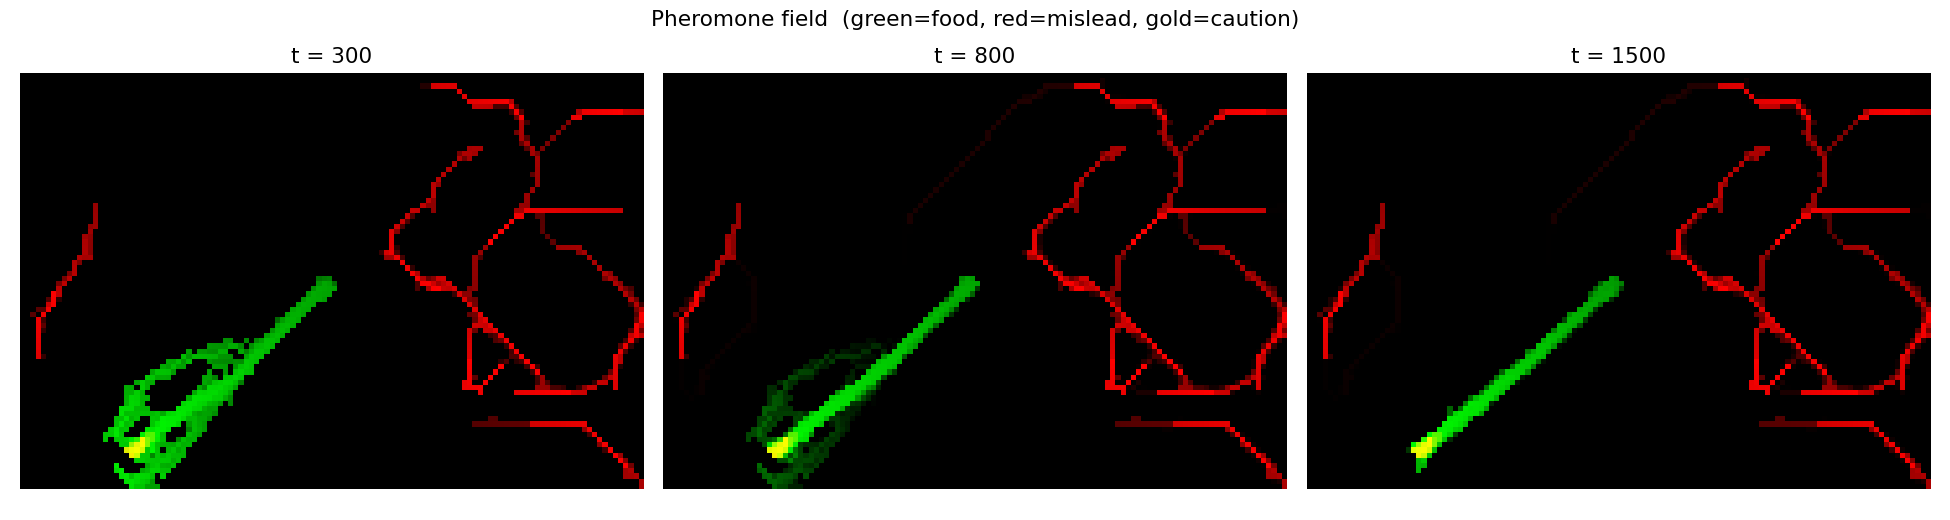
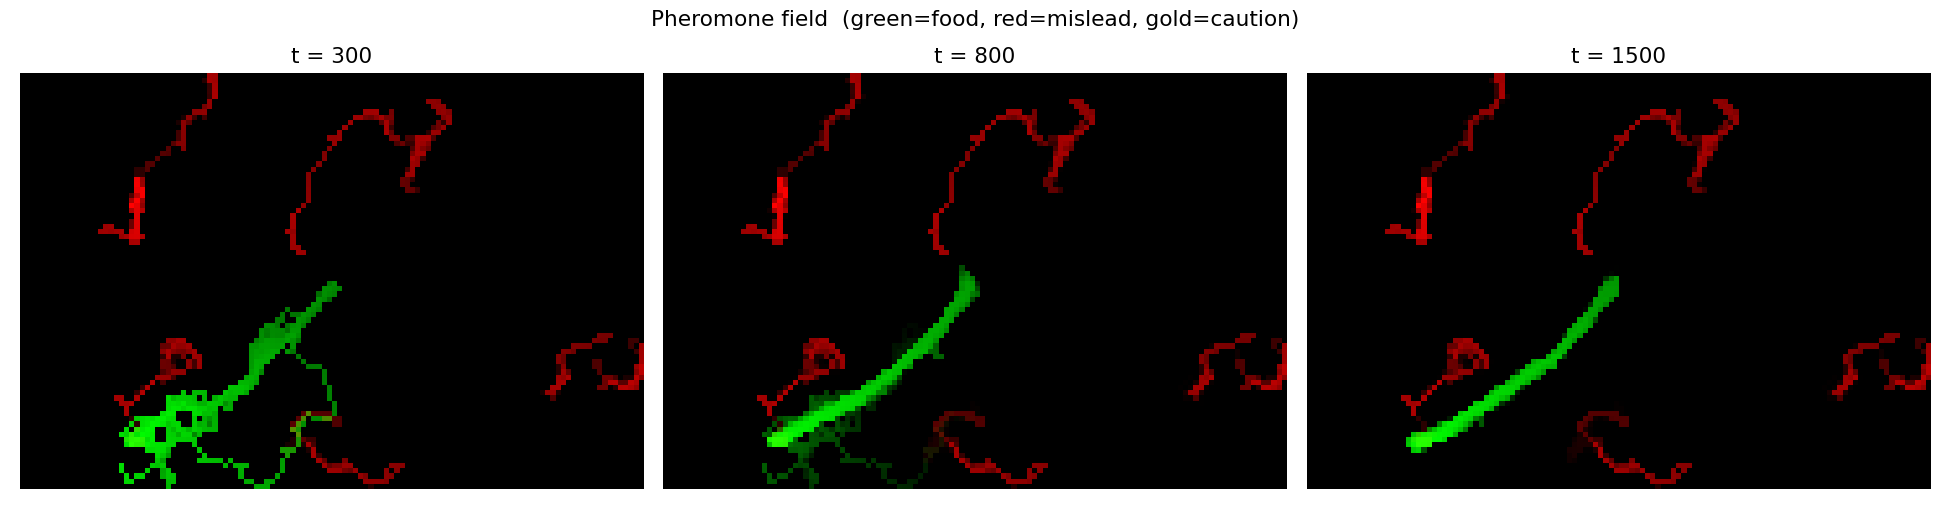
feat(viz): legibility pass + in-app About panel + one-pager
- searchers wander when no trail is sensed, so they fill an organic blob
  instead of beelining to the world edge (fixes the 'perfect square' artifact)
- patience_max sweet spot (500) so the cautionary defence reliably helps;
  document that too-low/too-high backfires (the defence's own cliff)
- vivid per-layer pheromone rendering (low vmax) so trails read clearly
- About panel in the dashboard: legend + guided walkthrough
- docs/one-pager.md: the protocol-fragility framing for the SIG
- regenerated field/heatmap with new dynamics

🤖 Generated with [Claude Code](https://claude.com/claude-code)

diff --git a/app.py b/app.py
@@ -3,22 +3,19 @@
 Run with:
     solara run app.py
 
-Sliders retune the protocol live: dial up the detractor fraction or slow the
-misleading-pheromone evaporation to watch foraging collapse, then toggle the
-cautionary defence to watch it partly recover. The grid shows ants (red =
-searching, gold = returning) over three pheromone layers (green = honest food,
-red = forged, gold = cautionary).
+Drive the protocol live with the sliders. The About panel in the dashboard
+explains the legend and what to do; this docstring is just the entry point.
 
-If this dashboard misbehaves (Solara's PropertyLayer rendering has been finicky
-across mesa 3.x), the headless path is fully sufficient: `python analysis.py`
-reproduces the heatmap and field snapshots without Solara.
+If the dashboard ever misbehaves (mesa's viz API has moved across 3.x), the
+headless path is fully sufficient: `python analysis.py` reproduces the heatmap
+and field snapshots without Solara.
 """
 
 from __future__ import annotations
 
-from mesa.visualization import SolaraViz, make_space_component, make_plot_component
+import solara
+from mesa.visualization import SolaraViz, make_space_component, make_plot_component, Slider
 from mesa.visualization.components import PropertyLayerStyle
-from mesa.visualization import Slider
 
 from src.model import ColonyModel
 from src.protocol import TO_FOOD
@@ -26,32 +23,69 @@ from src.protocol import TO_FOOD
 
 def agent_portrayal(agent):
     if agent.role == "detractor":
-        return {"color": "magenta", "size": 8, "marker": "x"}
+        return {"color": "magenta", "size": 14, "marker": "x"}
     if agent.state == TO_FOOD:
-        return {"color": "tab:red", "size": 6}
-    return {"color": "gold", "size": 6}
+        return {"color": "#e8483c", "size": 5}      # searching
+    return {"color": "gold", "size": 6}             # returning with food
 
 
-# Intensity -> alpha of a single colour, per layer. mesa 3.4.1 wants a callable
-# returning a PropertyLayerStyle (the dict form is deprecated). The home layer is
-# left unstyled (returns None) to keep the picture readable.
-_LAYER_COLORS = {
-    "pheromone_food": ("lime", 0.8),
-    "pheromone_mislead": ("red", 0.8),
-    "pheromone_caution": ("gold", 0.6),
+# Per-layer colour and a low vmax so even faint trails saturate to a bright wash.
+# mesa 3.4.1 wants a callable returning a PropertyLayerStyle (the dict form is
+# deprecated). The home layer is left unstyled to keep the picture readable.
+_LAYER_STYLE = {
+    "pheromone_food": dict(color="lime", alpha=0.9, vmax=70.0),
+    "pheromone_mislead": dict(color="red", alpha=0.9, vmax=70.0),
+    "pheromone_caution": dict(color="gold", alpha=0.7, vmax=120.0),
 }
 
 
 def propertylayer_portrayal(layer):
-    spec = _LAYER_COLORS.get(layer.name)
+    spec = _LAYER_STYLE.get(layer.name)
     if spec is None:
         return None
-    color, alpha = spec
-    return PropertyLayerStyle(color=color, alpha=alpha, vmin=0.0, vmax=200.0, colorbar=False)
+    return PropertyLayerStyle(vmin=0.0, colorbar=False, **spec)
+
+
+ABOUT = """
+## Stigmergy Protocol Bench
+
+**Stigmergy** is coordination with no messages and no boss: ants read and write a
+shared chemical medium, and the trail *is* the protocol. This bench asks what
+happens when that medium can be forged.
+
+**On the grid**
+- **red dots** &mdash; ants searching for food
+- **gold dots** &mdash; ants carrying food back to the nest
+- **magenta &times;** &mdash; *detractors* (adversaries); only present if the detractor slider is above 0
+- **green wash** &mdash; honest food trail
+- **red wash** &mdash; forged trail laid by detractors (looks identical to food)
+- **gold wash** &mdash; cautionary trail, the defence (only when enabled)
+
+Ants spread from the nest (centre) in a loose blob. When some find the food (far
+corner) they lay a green trail home and others sharpen it into a line. Detractors
+lay a red trail that ants **cannot tell apart** from real food, so the colony
+reinforces the fake one and gets trapped.
+
+**Try this**
+1. Press play with **detractor fraction = 0**: a clean green line forms. Healthy foraging.
+2. Raise **detractor fraction** to ~0.10 and set **mislead evaporation &times; = 0** (forgery never fades). Watch foraging collapse. That is the cliff: a few percent of liars starve the colony.
+3. Toggle **cautionary defence** on. Ants distrust trails that lead nowhere (gold), and foraging partly recovers &mdash; never fully, and the defence has its own sweet spot.
+
+**The point (for protocol theory):** any coordination protocol whose shared
+medium cannot be authenticated has this cliff. The defence is a second-order
+trust layer, and it trades liveness for safety. The plots track exactly that:
+*food delivered / success* (liveness) against *fraction captured* (the trap).
+"""
+
+
+@solara.component
+def About(model):
+    solara.Markdown(ABOUT)
+
 
 model_params = {
     "seed": {"type": "InputText", "value": 42, "label": "seed"},
-    "max_steps": 4000,
+    "max_steps": 5000,
     "n_ants": Slider("ants", value=200, min=50, max=600, step=50),
     "detractor_frac": Slider("detractor fraction", value=0.0, min=0.0, max=0.25, step=0.01),
     "mislead_evap_mult": Slider("mislead evaporation x", value=1.0, min=0.0, max=5.0, step=0.5),
@@ -69,7 +103,9 @@ page = SolaraViz(
         ),
         make_plot_component(["food_delivered_per_coop", "fraction_successful"]),
         make_plot_component(["fraction_captured"]),
+        About,
     ],
     model_params=model_params,
     name="Stigmergy Protocol Bench",
+    play_interval=100,
 )

diff --git a/src/constants.py b/src/constants.py
@@ -37,7 +37,10 @@ class ColonyParams:
     sensing_radius: int = 3                     # cells; paper l^s_max=40 units ~ 10 cells
     n_probes: int = 12                          # paper chi=32 probing vectors
     heading_cone: float = 0.8                   # * pi; paper theta^s_max=0.8*pi
-    turn_noise: float = 0.1                     # * pi; paper eta=0.1*pi
+    turn_noise: float = 0.1                     # * pi; eta, applied while following a trail
+    wander_noise: float = 0.35                  # * pi; larger turn when NO trail is sensed, so
+                                                #   searchers explore a blob instead of beelining
+                                                #   to the world edge (a correlated random walk)
 
     # --- pheromone deposition / evaporation ---
     # deposit intensity = deposit_max * exp(-lambda * tau)
@@ -50,7 +53,9 @@ class ColonyParams:
 
     # --- defence: cautionary pheromone (paper sec. 4) ---
     cautionary_on: bool = False
-    patience_max: float = 250.0                 # rho_max
+    patience_max: float = 500.0                 # rho_max. Sweet spot: too low (~250) and caution
+                                                #   blankets the area before the real trail forms
+                                                #   (defence backfires); too high and it never warns.
     patience_refill_steps: int = 1              # t_p: steps to reset patience to rho_max on finding food
 
     # --- run control ---

diff --git a/src/model.py b/src/model.py
@@ -48,13 +48,14 @@ class ColonyModel(Model):
         n_probes: int = 12,
         heading_cone: float = 0.8,
         turn_noise: float = 0.1,
+        wander_noise: float = 0.35,
         deposit_max: float = 1000.0,
         lam: float = 0.01,
         evap_rate: float = 1.0,
         mislead_evap_mult: float = 1.0,
         tau_attack: int = 100,
         cautionary_on: bool = False,
-        patience_max: float = 250.0,
+        patience_max: float = 500.0,
         patience_refill_steps: int = 1,
         max_steps: int = 2000,
         seed=None,
@@ -65,6 +66,7 @@ class ColonyModel(Model):
             food_xy=food_xy, food_radius=food_radius, food_amount=food_amount,
             n_ants=n_ants, detractor_frac=detractor_frac, sensing_radius=sensing_radius,
             n_probes=n_probes, heading_cone=heading_cone, turn_noise=turn_noise,
+            wander_noise=wander_noise,
             deposit_max=deposit_max, lam=lam, evap_rate=evap_rate,
             mislead_evap_mult=mislead_evap_mult, tau_attack=tau_attack,
             cautionary_on=cautionary_on, patience_max=patience_max,

diff --git a/src/agents.py b/src/agents.py
@@ -71,8 +71,13 @@ class Ant(CellAgent):
                 best_val, best_heading = val, math.atan2(cy - self.y, cx - self.x)
 
         if best_val <= 0.0 or best_heading is None:
-            best_heading = self.heading  # no trail: keep course
-        noise = self.model.random.uniform(-p.turn_noise * math.pi, p.turn_noise * math.pi)
+            # No trail in range: wander widely so searchers fill a blob around the
+            # nest rather than walking straight to the world edge.
+            best_heading = self.heading
+            spread = p.wander_noise
+        else:
+            spread = p.turn_noise   # on a trail: small jitter, follow it tightly
+        noise = self.model.random.uniform(-spread * math.pi, spread * math.pi)
         return best_heading + noise
 
     # -- motion ----------------------------------------------------------- #

diff --git a/docs/one-pager.md b/docs/one-pager.md
@@ -1,0 +1,31 @@
+# The Stigmergy Cliff
+
+*A note for the Formal Protocol Theory reading group, on Aswale, López, Ammartayakun & Pinciroli, "Hacking the Colony" (AAMAS 2022).*
+
+The paper looks like it is about ants. It is about coordination protocols, and it contains a result I think protocol theory should take as a first-class object.
+
+## The setup
+
+Stigmergy is coordination stripped to its minimum. Agents write signals into a shared medium and read them back. There are no direct messages, no identities, no central authority. The trail is the protocol. This is not a toy. Gossip networks, reputation-by-environment, price signals in a market, mempool ordering: a large family of real coordination mechanisms are authentication-free shared-medium protocols, and stigmergy is their cleanest instance.
+
+## The result
+
+A small minority of agents depositing an **indistinguishable** forged signal collapses the whole protocol. In the paper, 3 percent of agents laying misleading pheromone cuts food collection roughly 150-fold. With forgery that never decays, 0.39 percent is enough.
+
+The collapse is not bad luck and it is not a parameter you can tune away. It is structural. The read side cannot authenticate the medium, so honest agents amplify forged signals exactly as they amplify real ones. They build the trap together. Any authentication-free shared-medium protocol inherits this cliff. That is the claim worth generalizing past ants.
+
+## The defence, and its price
+
+The paper's countermeasure is a second-order signal: a cautionary pheromone that means "I followed this and found nothing, distrust it." It helps, sometimes a lot. It never fully restores the protocol, and it has a cost. Over-cautious agents abandon real trails too. The defence buys safety with liveness, and it has its own sweet spot: too little caution and the attack stands, too much and the colony distrusts everything and starves on its own.
+
+So the honest picture is not "attack, then patched." It is a tradeoff surface. **Capture versus liveness** is the real object, and where a protocol sits on that surface, how sharp its cliff is, and what a defence costs to move it, are the properties we should be measuring.
+
+## The systems reading
+
+The cautionary layer is a reference signal correcting a homeostat. Conant and Ashby tell us every good regulator must model the system it regulates. Here the colony must model something more specific: that its own coordination medium can be corrupted. The defence is the system acquiring an internal model of its own attack surface. Resilience is not the colony modelling its environment better. It is the colony modelling the adversarial corruption of its own channel, and acting on that model. This is the governance lens applied to a protocol rather than to an organization.
+
+## Why I built a bench, not a summary
+
+The repository alongside this note is a small, tunable model where the protocol is factored into swappable read and write policies. You can dial the detractor fraction and the forgery's persistence and watch the cliff appear, then switch on the defence and watch liveness partly return. The point of building it is that capture-versus-liveness should be something you can *run*, and eventually something you can *prove bounds on*, not just assert.
+
+That is where I want to take this. If protocols are systems in the formal sense the convergence work claims, then a coordination protocol's cliff should be a derivable property of its structure, and there should be a provable floor below which no second-order defence can hold. The open question I would put to the group: which trust-layer topologies move the cliff furthest for the least liveness cost, and is that floor real?

diff --git a/README.md b/README.md
@@ -47,7 +47,9 @@ solara run app.py                  # interactive dashboard
 
 - **`images/field.png`** — the pheromone field over time: a clean green food trail consolidating between nest and food, while detractors weave a red misleading-pheromone web (paper Figs 1/3).
 - **`images/heatmap.png`** — food delivered per cooperator across detractor fraction × misleading-pheromone evaporation. The red/blue boundary is the adversarial cliff (paper Fig 4).
-- **`solara run app.py`** — drive it live: raise the detractor fraction or slow the misleading-pheromone evaporation and watch foraging collapse, then toggle the cautionary defense and watch it partly recover.
+- **`solara run app.py`** — drive it live: raise the detractor fraction or slow the misleading-pheromone evaporation and watch foraging collapse, then toggle the cautionary defense and watch it partly recover. The dashboard's **About** panel carries the full legend and a guided walkthrough.
+
+For the protocol-theory framing (the "why this matters past ants" argument), see [`docs/one-pager.md`](docs/one-pager.md).
 
 ## Layout
 
